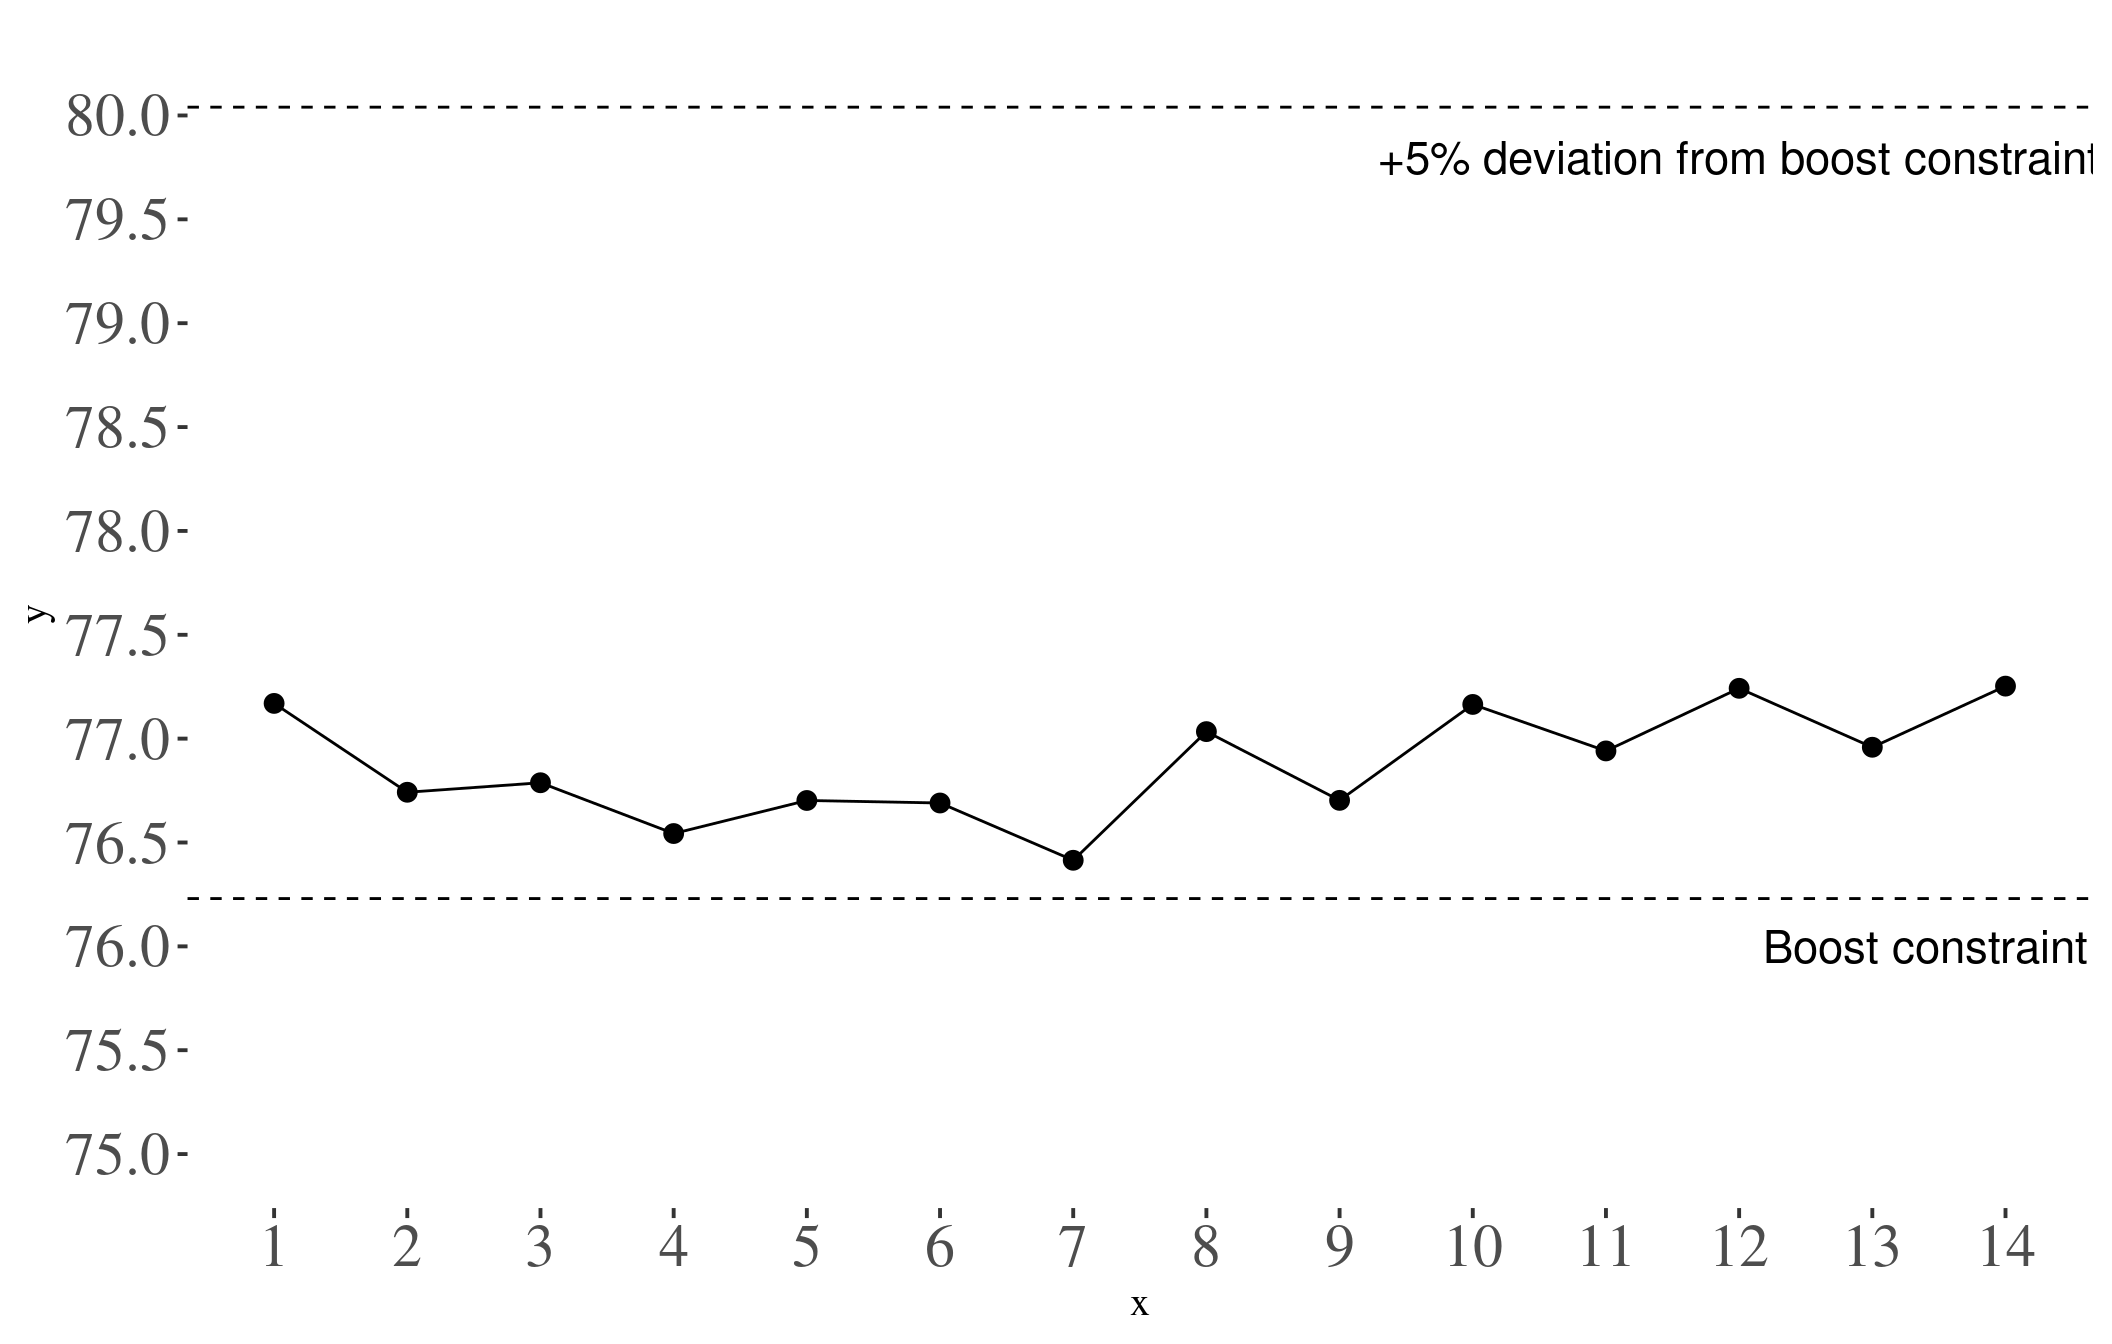
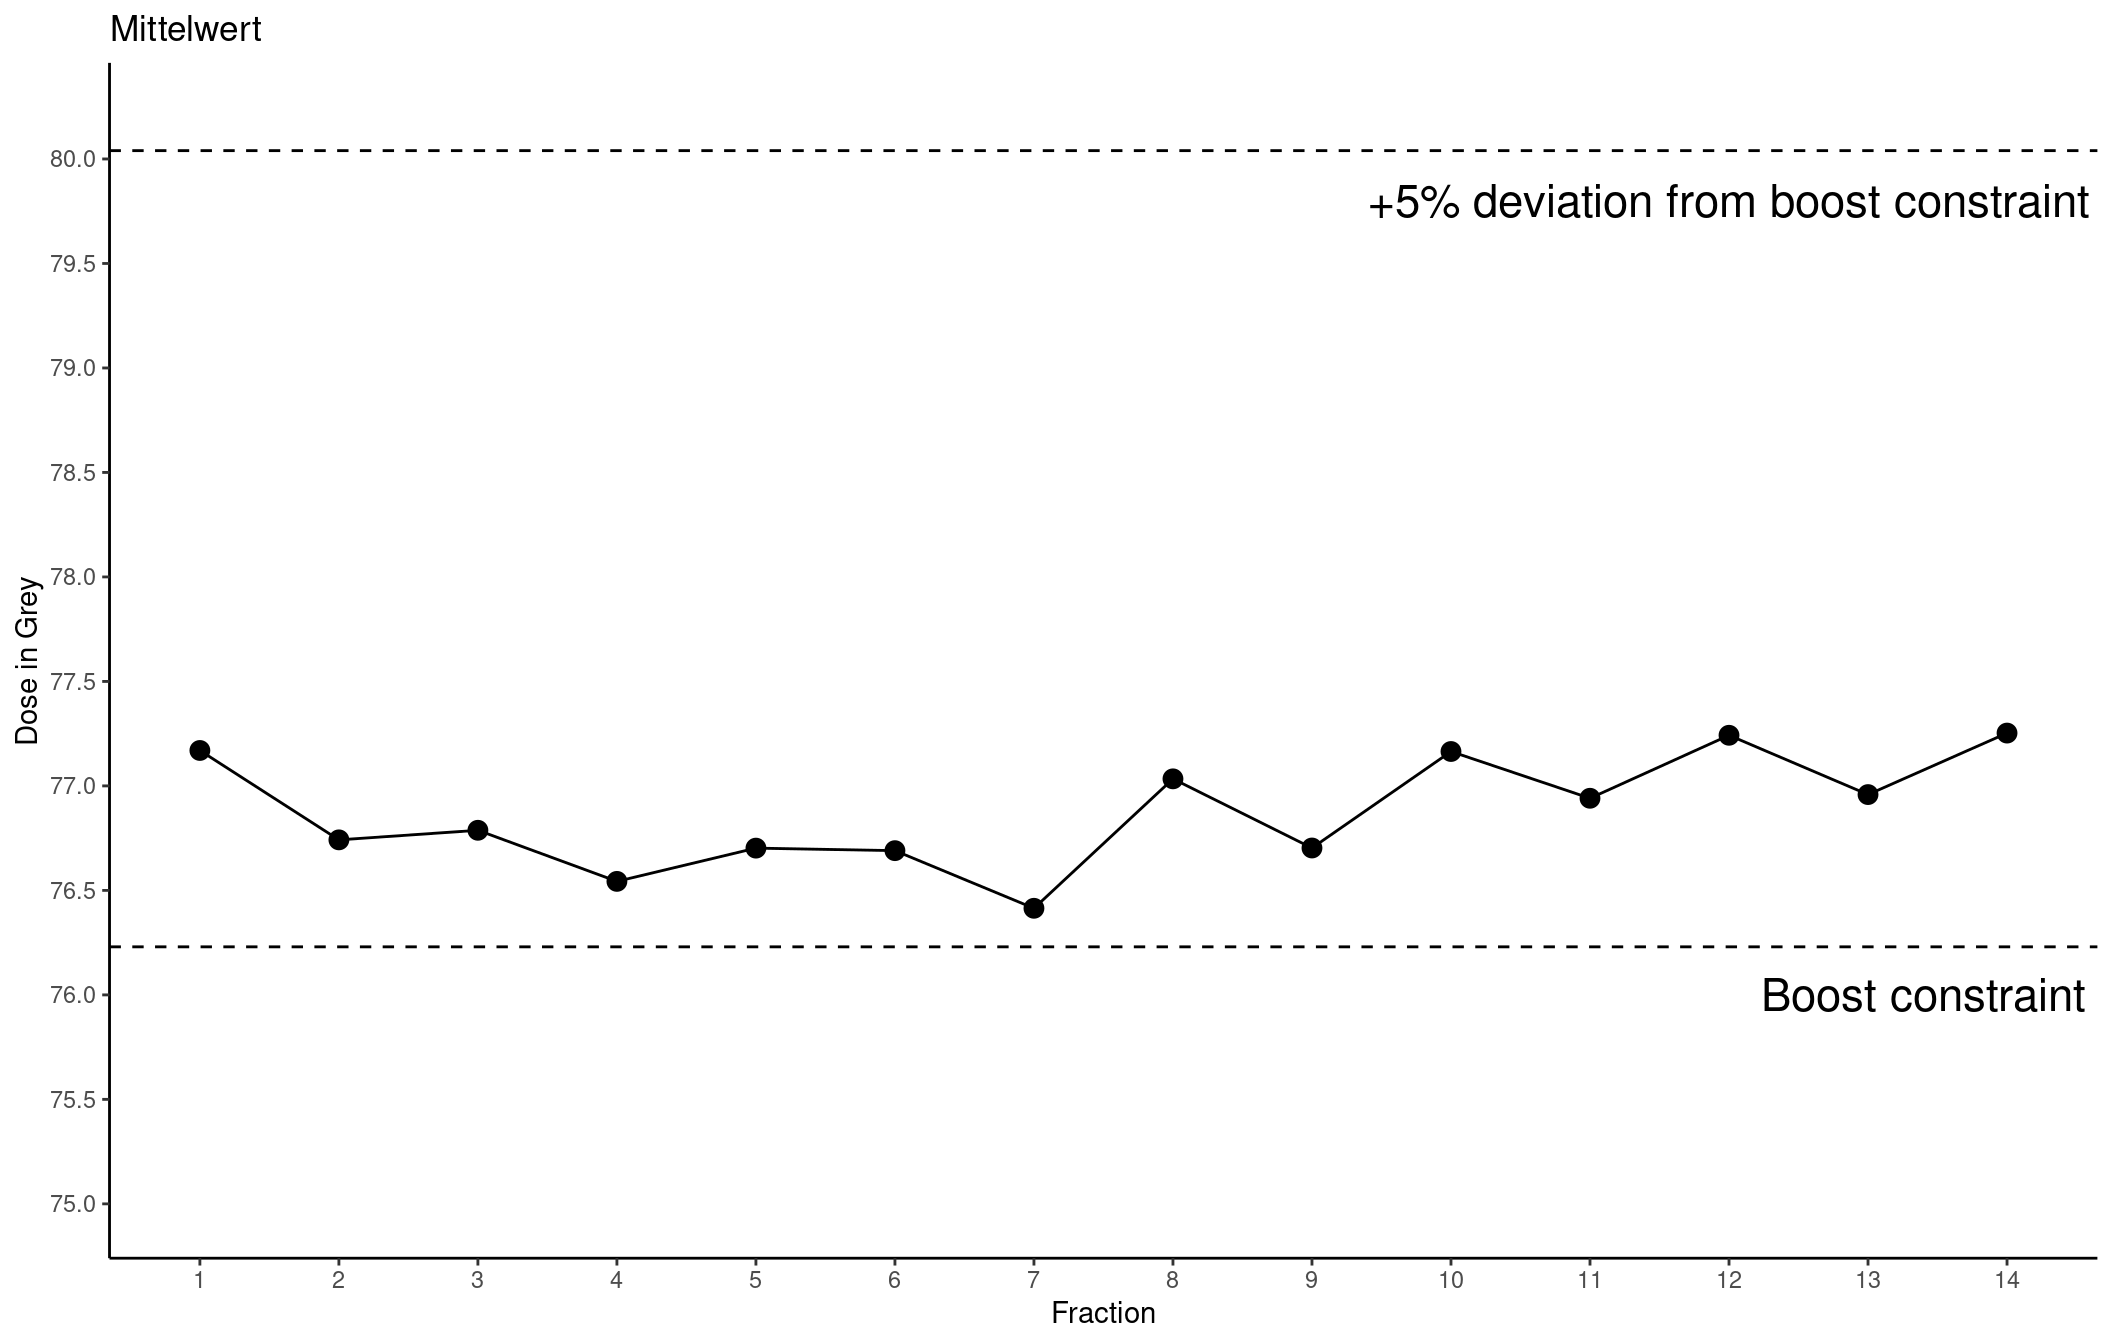
Build site.

diff --git a/docs/first-analysis.html b/docs/first-analysis.html
@@ -412,7 +412,7 @@ div.tocify {
 <div class="tab-content">
 <div id="summary" class="tab-pane fade in active">
 <p>
-<strong>Last updated:</strong> 2020-06-23
+<strong>Last updated:</strong> 2020-06-24
 </p>
 <p>
 <strong>Checks:</strong> <span class="glyphicon glyphicon-ok text-success" aria-hidden="true"></span> 7 <span class="glyphicon glyphicon-exclamation-sign text-danger" aria-hidden="true"></span> 0
@@ -503,16 +503,16 @@ This reproducible <a href="http://rmarkdown.rstudio.com">R Markdown</a> analysis
 <div class="panel panel-default">
 <div class="panel-heading">
 <p class="panel-title">
-<a data-toggle="collapse" data-parent="#workflowr-checks" href="#strongRepositoryversionstrongahrefhttpsgithubcomdssrttnTesttreee2d85ab4c01220c3633f531c0247f4542dc98d93targetblanke2d85aba"> <span class="glyphicon glyphicon-ok text-success" aria-hidden="true"></span> <strong>Repository version:</strong> <a href="https://github.com/dssrttn/Test/tree/e2d85ab4c01220c3633f531c0247f4542dc98d93" target="_blank">e2d85ab</a> </a>
+<a data-toggle="collapse" data-parent="#workflowr-checks" href="#strongRepositoryversionstrongahrefhttpsgithubcomdssrttnTesttree0ecf027f8e808b0ab156777d711a5a06e055127etargetblank0ecf027a"> <span class="glyphicon glyphicon-ok text-success" aria-hidden="true"></span> <strong>Repository version:</strong> <a href="https://github.com/dssrttn/Test/tree/0ecf027f8e808b0ab156777d711a5a06e055127e" target="_blank">0ecf027</a> </a>
 </p>
 </div>
[2 lines of base64/hex data omitted]
 <div class="panel-body">
 <p>
 Great! You are using Git for version control. Tracking code development and connecting the code version to the results is critical for reproducibility.
 </p>
 <p>
-The results in this page were generated with repository version <a href="https://github.com/dssrttn/Test/tree/e2d85ab4c01220c3633f531c0247f4542dc98d93" target="_blank">e2d85ab</a>. See the <em>Past versions</em> tab to see a history of the changes made to the R Markdown and HTML files.
+The results in this page were generated with repository version <a href="https://github.com/dssrttn/Test/tree/0ecf027f8e808b0ab156777d711a5a06e055127e" target="_blank">0ecf027</a>. See the <em>Past versions</em> tab to see a history of the changes made to the R Markdown and HTML files.
 </p>
 <p>
 Note that you need to be careful to ensure that all relevant files for the analysis have been committed to Git prior to generating the results (you can use <code>wflow_publish</code> or <code>wflow_git_commit</code>). workflowr only checks the R Markdown file, but you know if there are other scripts or data files that it depends on. Below is the status of the Git repository when the results were generated:
@@ -565,6 +565,40 @@ Message
 </tr>
 </thead>
 <tbody>
+<tr>
+<td>
+Rmd
+</td>
+<td>
+<a href="https://github.com/dssrttn/Test/blob/0ecf027f8e808b0ab156777d711a5a06e055127e/analysis/first-analysis.Rmd" target="_blank">0ecf027</a>
+</td>
+<td>
+Mein Vorname
+</td>
+<td>
+2020-06-24
+</td>
+<td>
+Allgemeines
+</td>
+</tr>
+<tr>
+<td>
+html
+</td>
+<td>
+<a href="https://rawcdn.githack.com/dssrttn/Test/9f71cb55fc60433e6fe9711ee0b70985c860bd8b/docs/first-analysis.html" target="_blank">9f71cb5</a>
+</td>
+<td>
+Mein Vorname
+</td>
+<td>
+2020-06-23
+</td>
+<td>
+Build site.
+</td>
+</tr>
 <tr>
 <td>
 Rmd
@@ -1986,6 +2020,17 @@ Date
 <tbody>
 <tr>
 <td>
+<a href="https://github.com/dssrttn/Test/blob/9f71cb55fc60433e6fe9711ee0b70985c860bd8b/docs/figure/first-analysis.Rmd/unnamed-chunk-13-1.png" target="_blank">9f71cb5</a>
+</td>
+<td>
+Mein Vorname
+</td>
+<td>
+2020-06-23
+</td>
+</tr>
+<tr>
+<td>
 <a href="https://github.com/dssrttn/Test/blob/34d32f08bd98ec09c513ac3b64461d94701e6e9e/docs/figure/first-analysis.Rmd/unnamed-chunk-13-1.png" target="_blank">34d32f0</a>
 </td>
 <td>
@@ -2015,20 +2060,68 @@ par(mgp=c(3,1,0)) # mpg: Abstand Label zu Achse
 ggplot(DIL_1_MW, aes(x,y)) +
   geom_line() + 
   geom_point(size=3) + 
-  theme_tufte(base_size = 15) +
-  theme(#axis.title=element_blank(), # lässt keine Achsenbeschreibung zu
-    axis.text=element_text(size=rel(1.5))) + 
-   expand_limits(y = c(75.0, 80.2)) +
-  #labs(y = &quot;Dose in Gray&quot;) +
-  #labs(x = &quot;Fraction&quot;) +
-  #axis.title.x = element_text(size = rel(6)) +
+  labs(title=&quot;Mittelwert&quot;, #subtitle=&quot;From midwest dataset&quot;, 
+      y=&quot;Dose in Grey&quot;, x=&quot;Fraction&quot;) +
+      #, caption=&quot;Midwest Demographics&quot;)
+ expand_limits(y = c(75.0, 80.2)) +
+   theme_bw() + # remove grid lines, background color ...
+  theme(#axis.title.x = element_text(size = rel(2)) +
+   panel.border = element_blank(), 
+   panel.grid.major = element_blank(),
+   panel.grid.minor = element_blank(), 
+   axis.line = element_line(colour = &quot;black&quot;)) +
+       #  axis.title.x = element_text(size = rel(2)) 
+  #  axis.text=element_text(size=rel(1.5))
+ #theme(#axis.title=element_blank(), # lässt keine Achsenbeschreibung zu
+  #  axis.text=element_text(size=rel(1.5)) +
+   #   axis.title.x = element_text(size = rel(6)) +
+        # expand_limits(y = c(75.0, 80.2))) +
+  # axis.title.x=element_text(color = &quot;grey20&quot;, size = 12, angle = 0, hjust = .5, vjust = 0, face = &quot;plain&quot;) +
+   # axis.title.y=element_text(color = &quot;grey20&quot;, size = 12, angle = 90, hjust = .5, vjust = .5, face = &quot;plain&quot;)) + 
+#  axis.title.x = element_text(size = rel(6)) +
 geom_hline(yintercept = c(76.23, 80.04), lty=2) +
  scale_y_continuous(breaks=seq(74, 81, 0.5)) + #label=seq((74 81))) + 
   scale_x_continuous(breaks=x,label=x) +
- # labs(x = &quot;Dose (mg)&quot;, y = &quot;Teeth length&quot;)
  annotate(&quot;text&quot;, x = 13.4, y = 76.0, cex =rel(6), label = &quot;Boost constraint&quot;) +
  annotate(&quot;text&quot;, x = 12, y = 79.8, cex =rel(6), label = &quot;+5% deviation from boost constraint&quot;)</code></pre>
 <p><img src="figure/first-analysis.Rmd/unnamed-chunk-14-1.png" width="1056" style="display: block; margin: auto;" /></p>
+<p>
+<button type="button" class="btn btn-default btn-xs btn-workflowr btn-workflowr-fig" data-toggle="collapse" data-target="#fig-unnamed-chunk-14-1">
+Past versions of unnamed-chunk-14-1.png
+</button>
+</p>
+<div id="fig-unnamed-chunk-14-1" class="collapse">
+<div class="table-responsive">
+<table class="table table-condensed table-hover">
+<thead>
+<tr>
+<th>
+Version
+</th>
+<th>
+Author
+</th>
+<th>
+Date
+</th>
+</tr>
+</thead>
+<tbody>
+<tr>
+<td>
+<a href="https://github.com/dssrttn/Test/blob/9f71cb55fc60433e6fe9711ee0b70985c860bd8b/docs/figure/first-analysis.Rmd/unnamed-chunk-14-1.png" target="_blank">9f71cb5</a>
+</td>
+<td>
+Mein Vorname
+</td>
+<td>
+2020-06-23
+</td>
+</tr>
+</tbody>
+</table>
+</div>
+</div>
 <pre class="r"><code>library(ggplot2)
 library(ggthemes)
 x &lt;- 1967:1977
@@ -2041,6 +2134,43 @@ ggplot(d, aes(x,y)) + geom_line() + geom_point(size=3) + theme_tufte(base_size =
   annotate(&quot;text&quot;, x = c(1977,1977.2), y = c(1.5,5.5), adj=1,  family=&quot;serif&quot;,
            label = c(&quot;Per capita\nbudget expandures\nin constant dollars&quot;, &quot;5%&quot;))</code></pre>
 <p><img src="figure/first-analysis.Rmd/unnamed-chunk-15-1.png" width="672" style="display: block; margin: auto;" /></p>
+<p>
+<button type="button" class="btn btn-default btn-xs btn-workflowr btn-workflowr-fig" data-toggle="collapse" data-target="#fig-unnamed-chunk-15-1">
+Past versions of unnamed-chunk-15-1.png
+</button>
+</p>
+<div id="fig-unnamed-chunk-15-1" class="collapse">
+<div class="table-responsive">
+<table class="table table-condensed table-hover">
+<thead>
+<tr>
+<th>
+Version
+</th>
+<th>
+Author
+</th>
+<th>
+Date
+</th>
+</tr>
+</thead>
+<tbody>
+<tr>
+<td>
+<a href="https://github.com/dssrttn/Test/blob/9f71cb55fc60433e6fe9711ee0b70985c860bd8b/docs/figure/first-analysis.Rmd/unnamed-chunk-15-1.png" target="_blank">9f71cb5</a>
+</td>
+<td>
+Mein Vorname
+</td>
+<td>
+2020-06-23
+</td>
+</tr>
+</tbody>
+</table>
+</div>
+</div>
 <br>
 <p>
 <button type="button" class="btn btn-default btn-workflowr btn-workflowr-sessioninfo" data-toggle="collapse" data-target="#workflowr-sessioninfo" style="display: block;">
